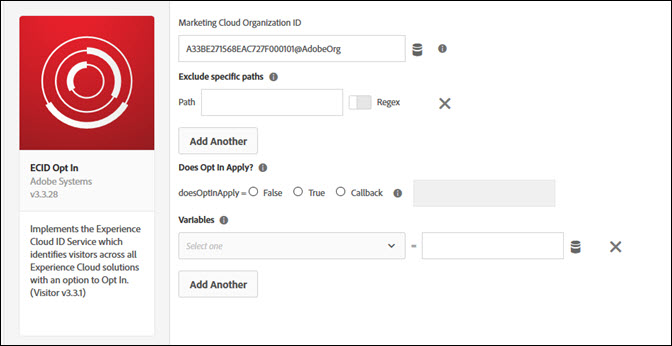
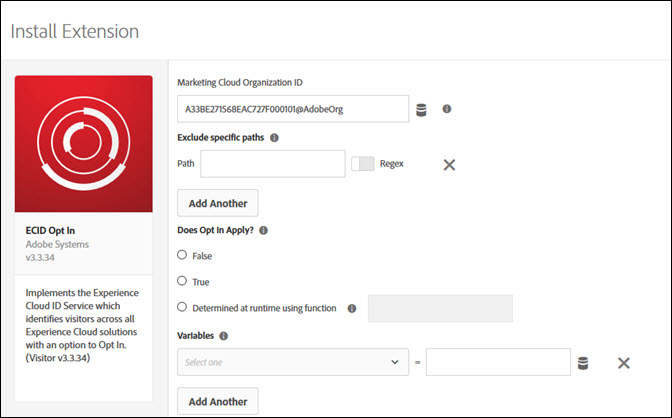
GitBook: [master] one page and 2 assets modified

diff --git a/extension-reference/web/ecid-opt-in-extension.md b/extension-reference/web/ecid-opt-in-extension.md
@@ -34,13 +34,13 @@ Click Add to exclude another path.
 
 ### Opt In
 
-Use the Opt-In options to determine whether or not to create cookies on a visitor's computer or device. If enabled, Opt-In waits for consent to track a visitor's activities on your website.
+Use the Does Opt In Apply options to determine whether or not to create cookies on a visitor's computer or device. The selected option determines whether your website waits for consent to track a visitor's activities on your website.
 
 There are three options:
 
-* **doesOptInApply=False:** Does not wait for consent to track the visitor
-* **doesOptInApply=True:** Waits for consent to track the visitor
-* **doesOptInApply=Callback:** Sets Opt-In to a function that resolves to a Boolean, after it does some calculations. If you select Callback, the Select Data Element field becomes available. Select the desired data element. For example, Opt-In can parse the website URL to see if it’s located in the EU. In this example, select a data element that contains your country.
+* **False:** Does not wait for consent to track the visitor. This is the default behavior if you do not select an option.
+* **True:** Waits for consent to track the visitor.
+* **Determined at runtime using function:** Programmatically determine whether the value is true or false at runtime. If you select this option, the Select Data Element field becomes available. Select a data element that can determine whether to wait for consent. This data element resolves to a boolean value. For example, you can select a data element that provides consent determined on whether the visitor's country is located in the EU. 
 
 ### Variables
 
